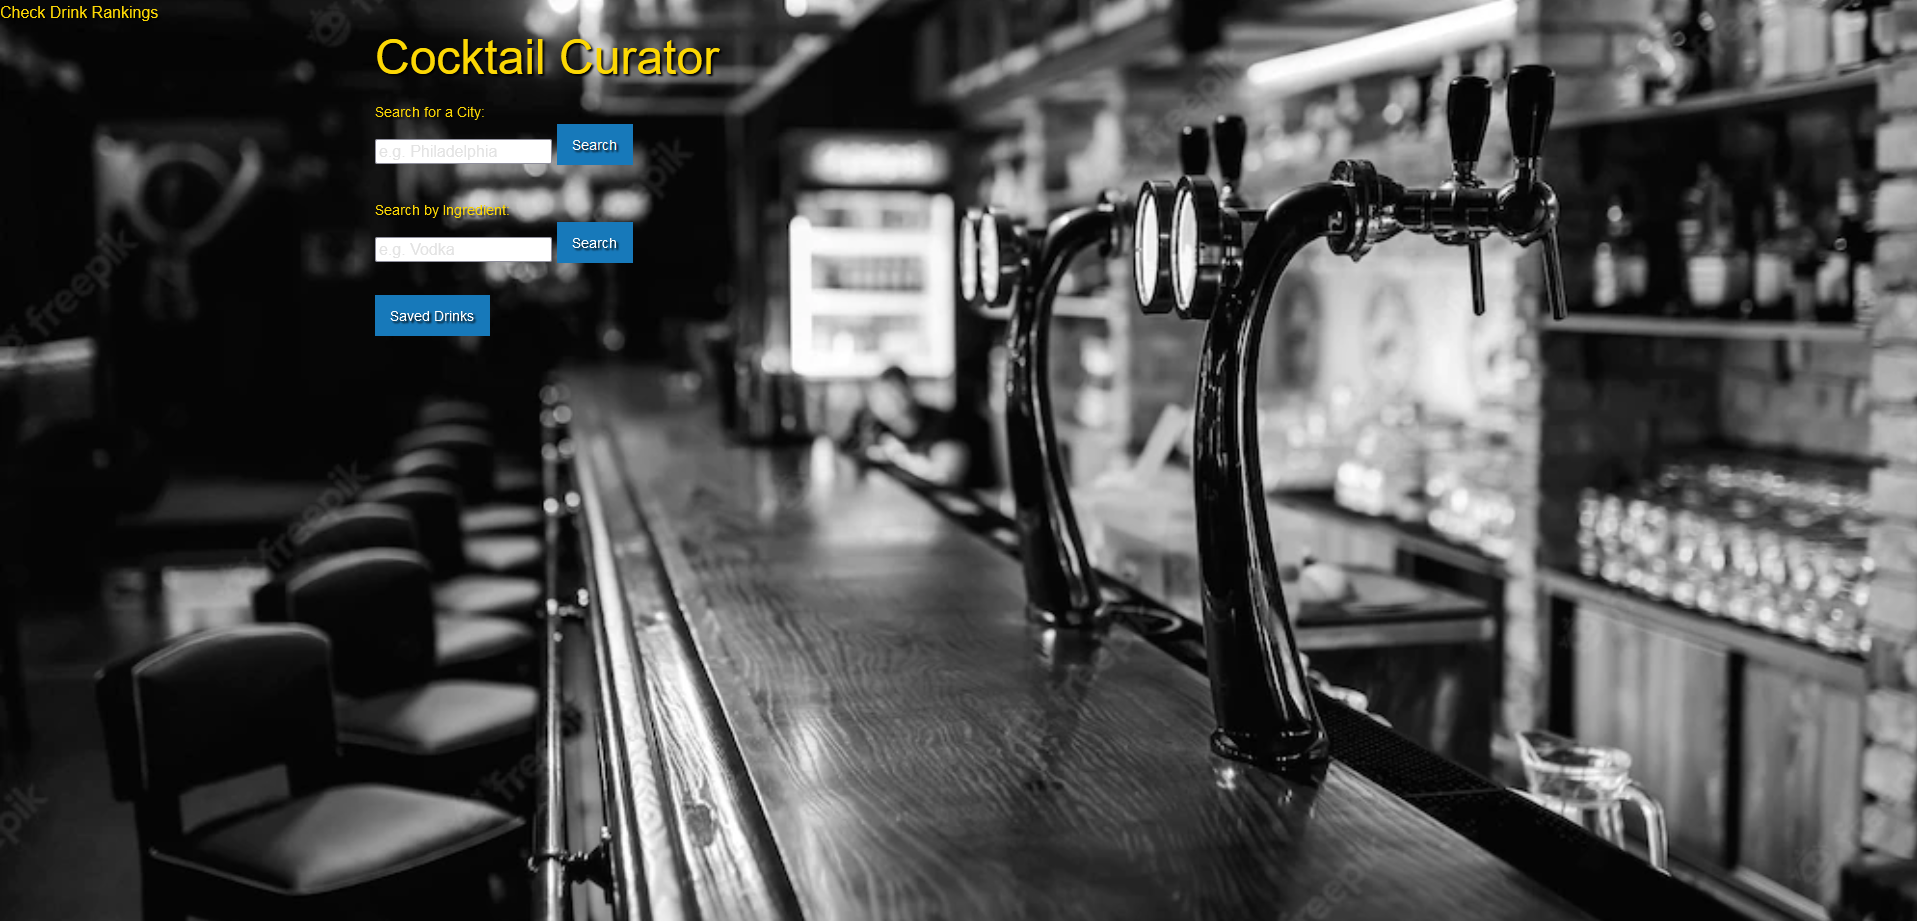
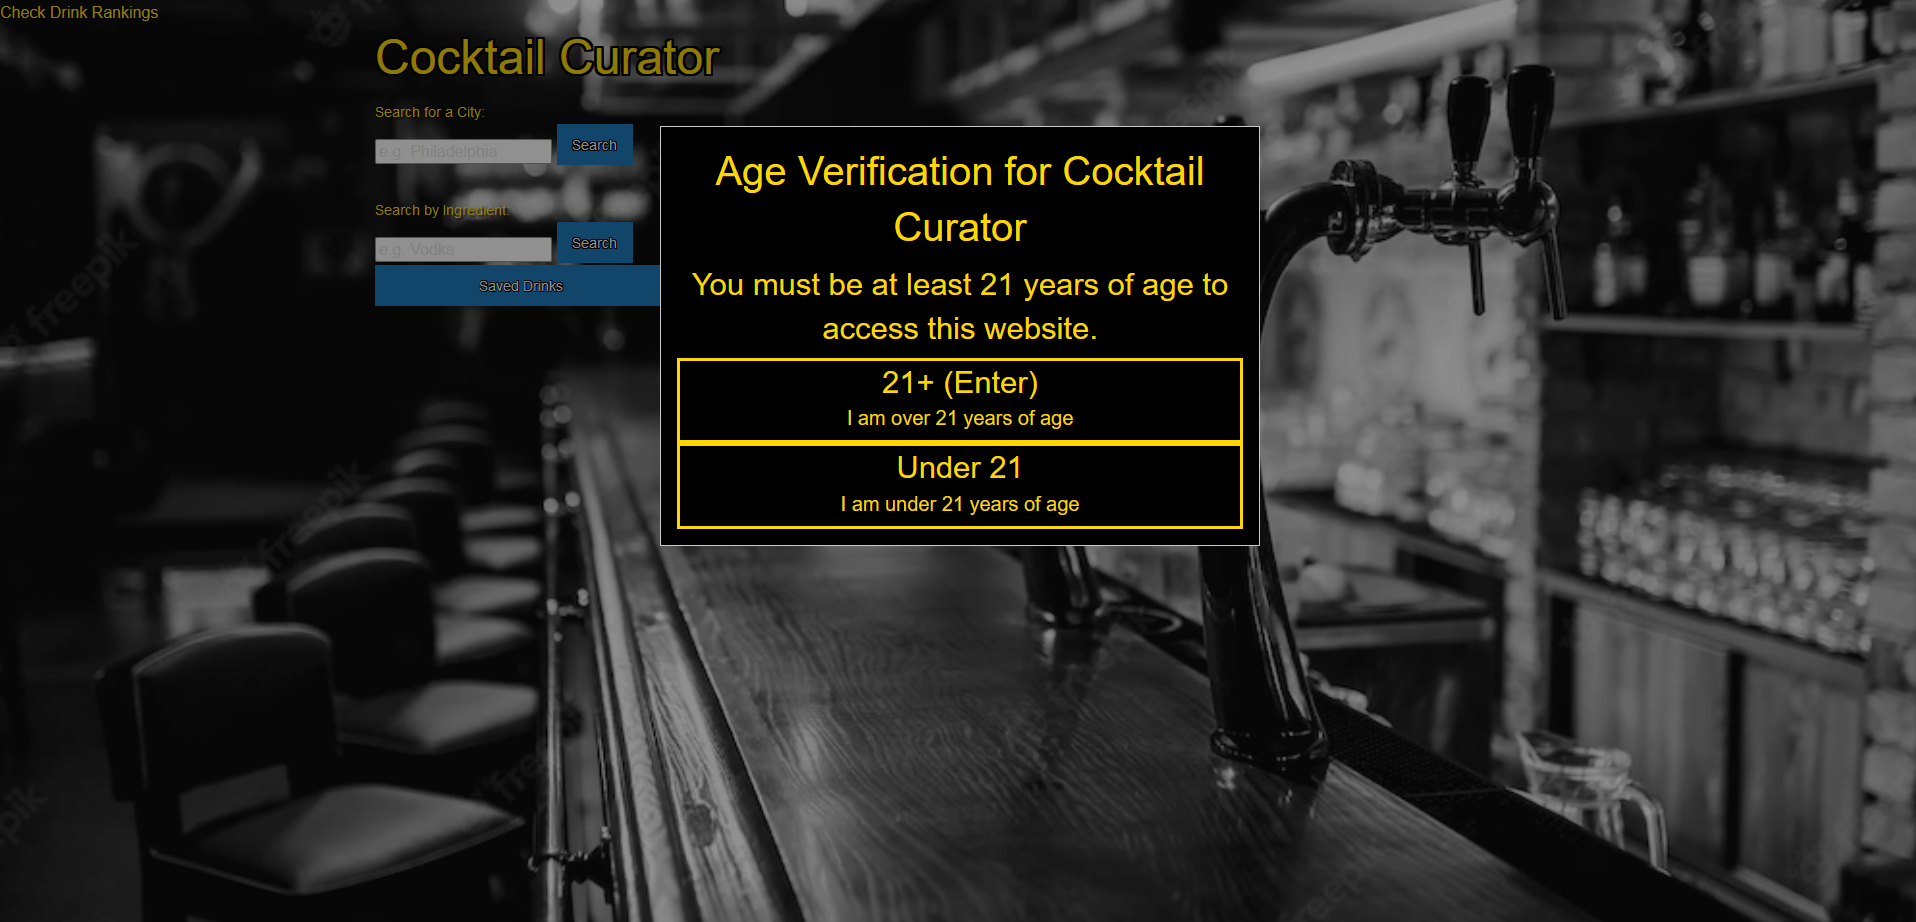
updated readme

diff --git a/README.md b/README.md
@@ -1,18 +1,35 @@
 # Cocktail-Curator
 
-Welcome to the Cocktail Curator! We've created a page to offer recommendations based on the temperature of the city you're searching, as well as the option to save those drinks locally to a list for you to refer to later come the opportunity arises.
+Welcome to the Cocktail Curator! We've created a page to offer recommendations based on the temperature of the city you're searching, as well as the option to search by ingredient to see all the possible choices out there! There is also an option to save those drinks locally to a list for you to refer to later for when the opportunity arises.
 
 
-Here is an example of the screen that you are welcomed with on loading the page.
+Here is an example of the screen that you are welcomed with on loading the page. An age verification check is needed for you to enter the site, afterwords you're free to roam around as you please.
+
 ![an example of the welcoming screen](./assets/images/start.png)
 
-After a search this is what will be like once returned.
-![an example of a search query done on the site](./assets/images/example.png)
 
-We'll also collect the data on how many people view a secific recipe to determine popularity.
+First, you can search the city you live in to see a recommendation of a drink best suited for the temperature of where you are.
+
+![recommendation of a drink given based on temperature](./assets/images/weather-search.png) 
+
+
+After an ingredient search this is what it will be like once returned. A list of 5 random choices using the specific ingredient you searched.
+
+![example of an ingredient search](./assets/images/ingredient%20search.png)
+
+
+
+You can click on any of the results to be greeted with the recipe and instructions on how to make the cocktail. 
+
+![an example of the recipe for chosen cocktail](./assets/images/recipe.png) 
+
+
+
+We also collect the data on how often you view secific recipe to determine your favorite.
+
 ![an example of a search query done on the site](./assets/images/rankings.png)
 
 
 ##
 
-https://james-stapleton.github.io/Cocktail-Codex/
+https://james-stapleton.github.io/Cocktail-Curator/
